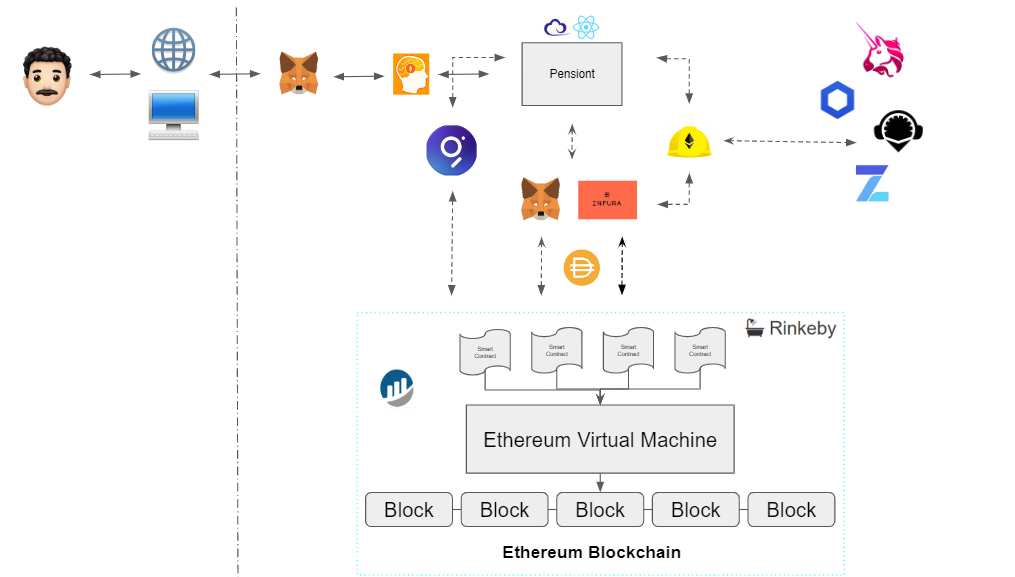
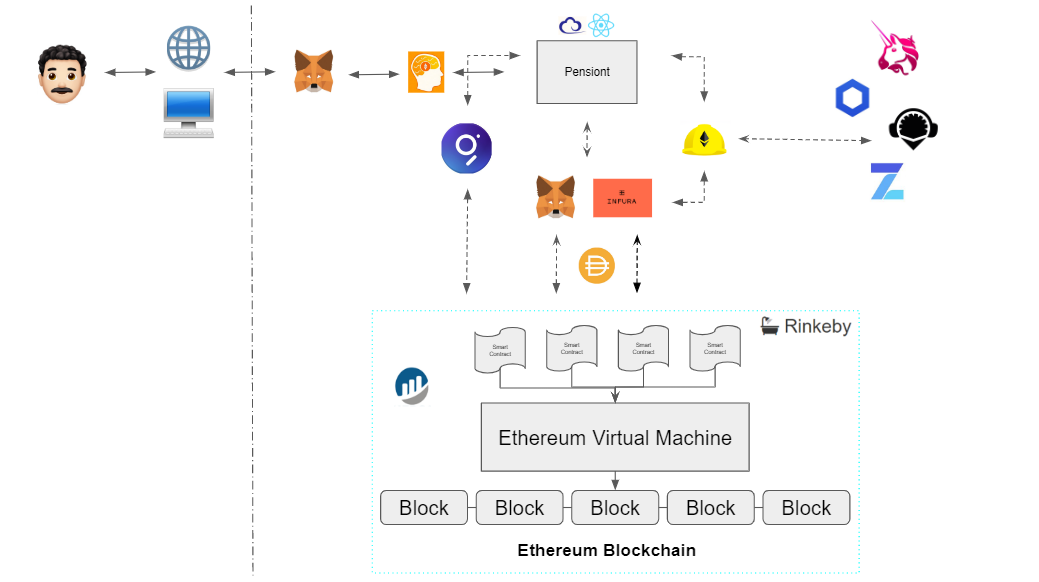
[DOCS] Changes in the README

diff --git a/README.md b/README.md
@@ -39,14 +39,14 @@ The scope MVP was black in color.
 ![MVP business model](https://user-images.githubusercontent.com/90350943/188745171-88f325ce-9801-4a24-8a75-679a653c8210.png)
 
 ### Software architectural style
-#### Technologies used:
-![Software architectural](https://user-images.githubusercontent.com/90350943/188747280-7f252e57-506c-4368-80e1-a721be4d940d.png")
+#### Technologies:
+
+![Sofware architectural](https://user-images.githubusercontent.com/90350943/188748888-ae54c4b1-1d4b-4b62-9642-b1f40595bf5f.png)
 
 ### MVP architectural style
-#### Technolgoies used in this repositorie:
+#### Technolgoies used in MVP:
 
 ![MVP architectural](https://user-images.githubusercontent.com/90350943/188739152-0b9c677a-df5a-4d89-98c8-e5cd28c42f3e.png)
-
 ### Authors
 
 [GerardoDev25](https://github.com/GerardoDev25)
